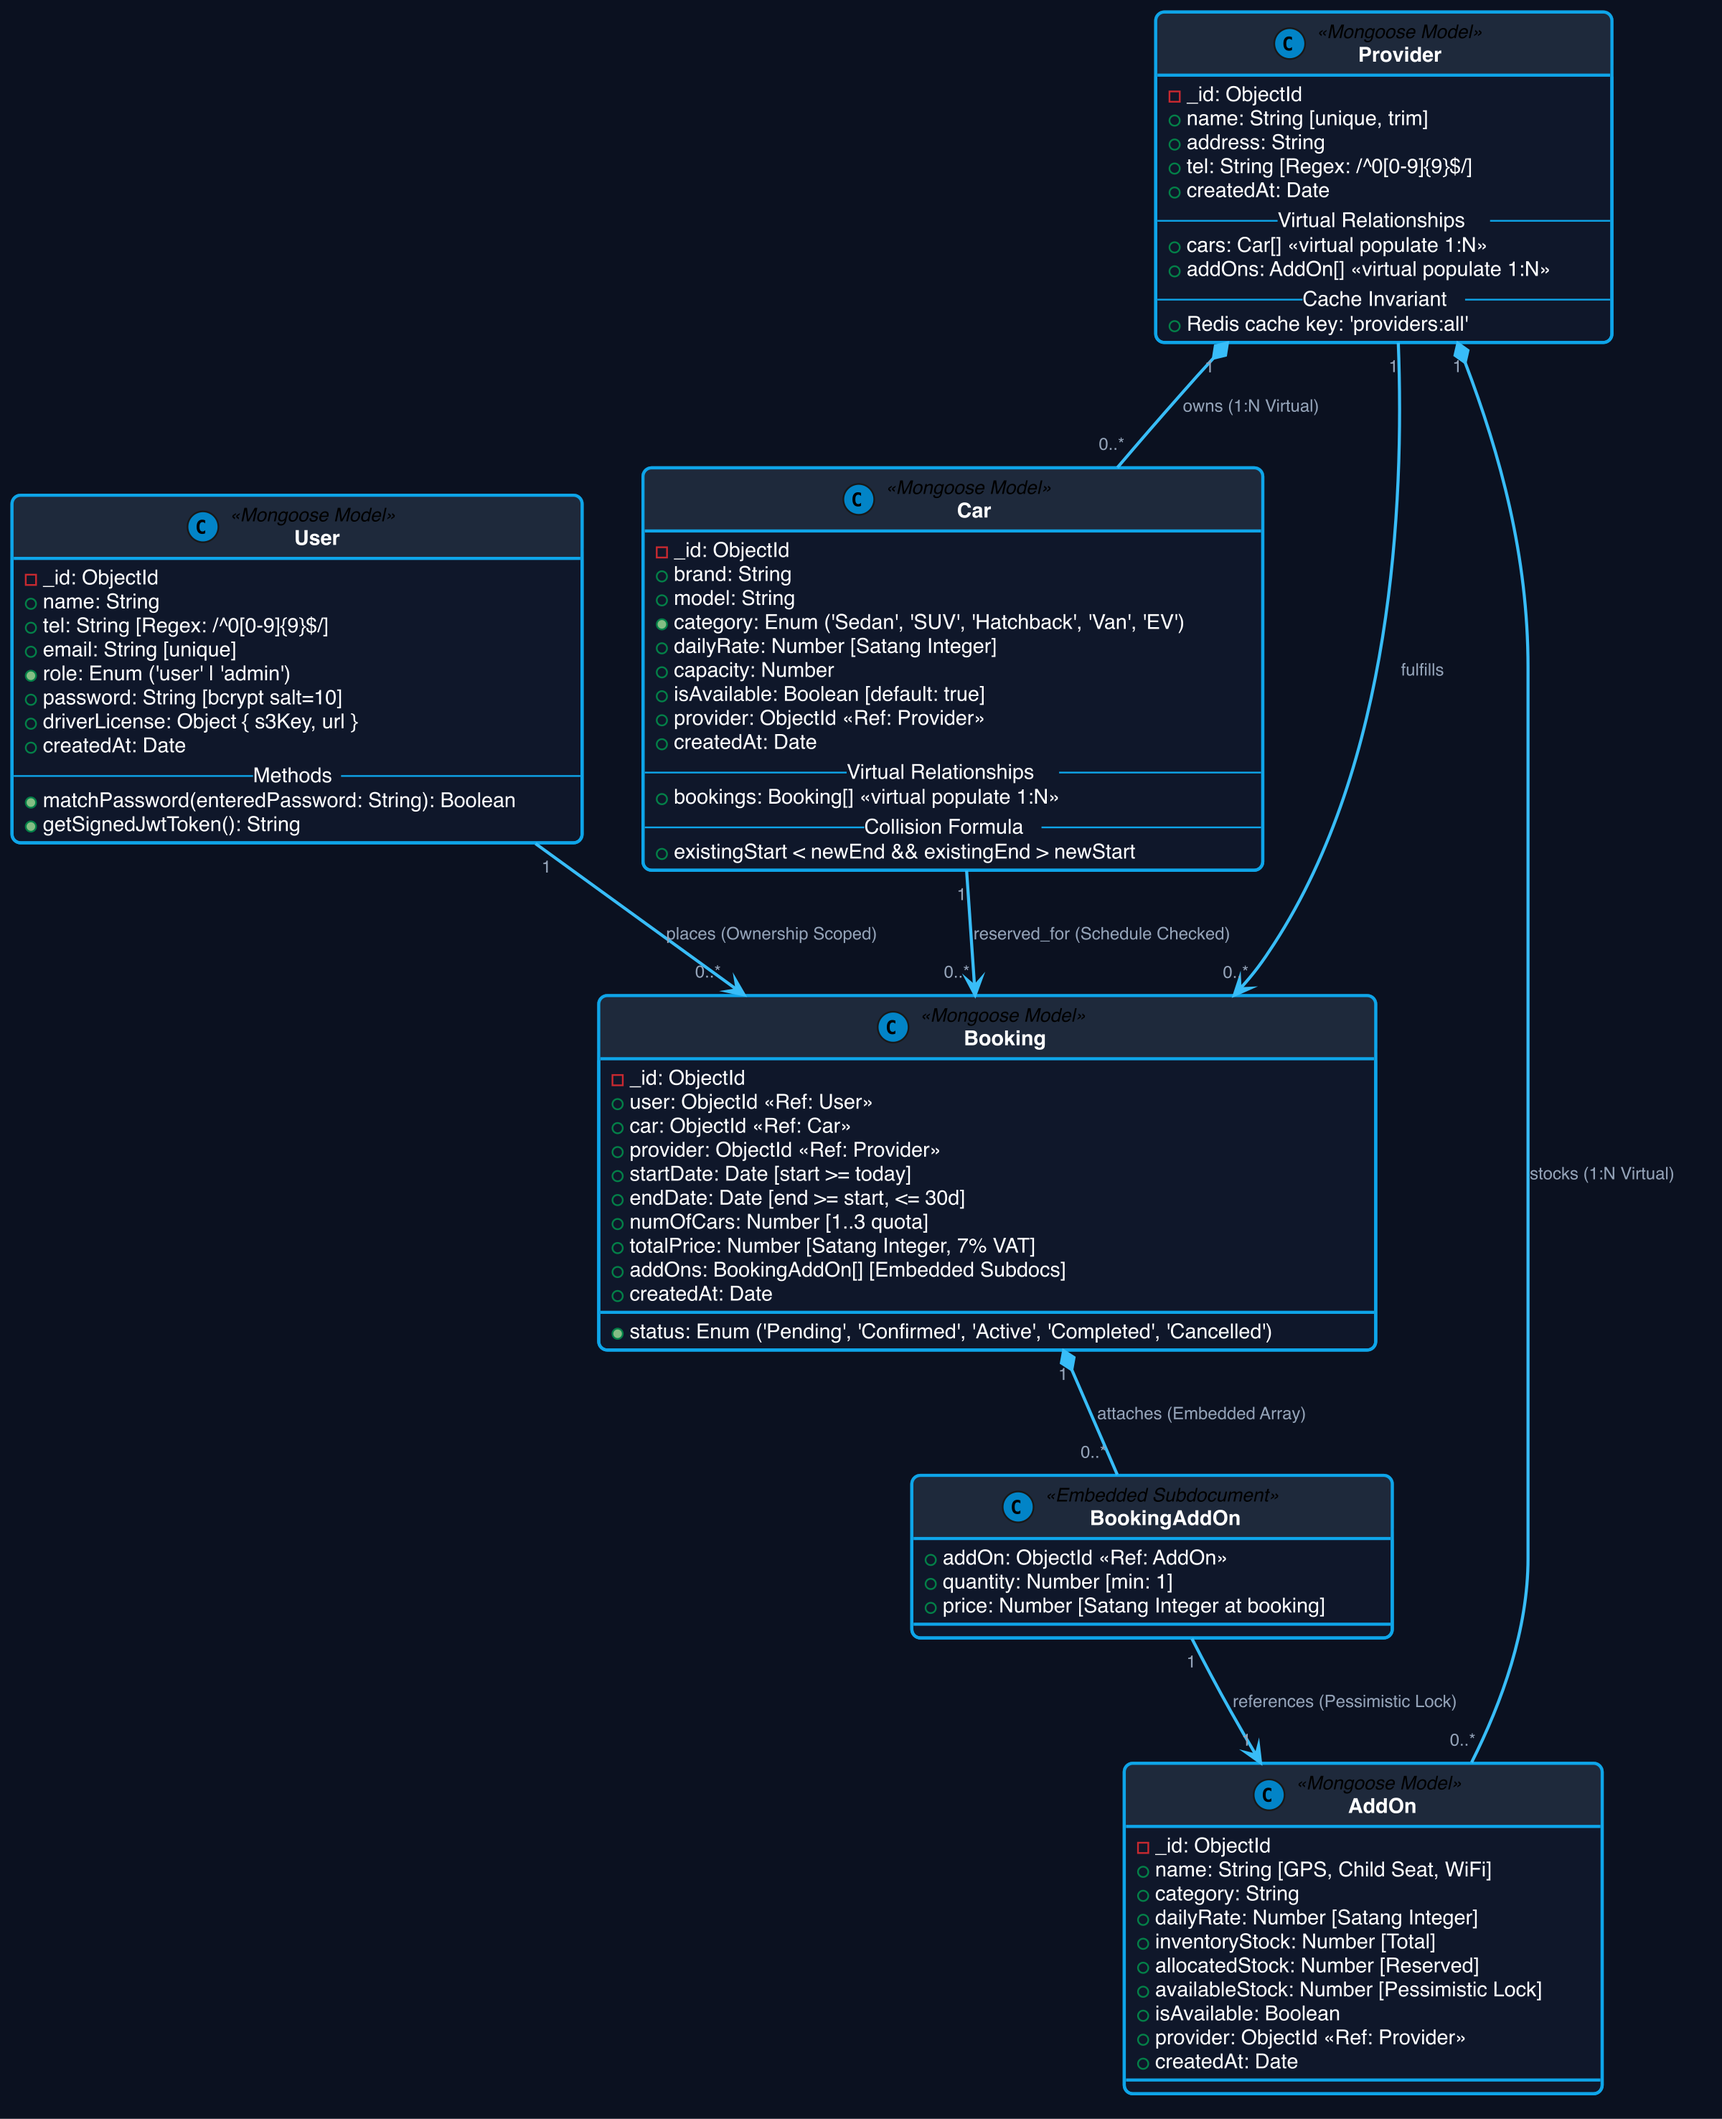
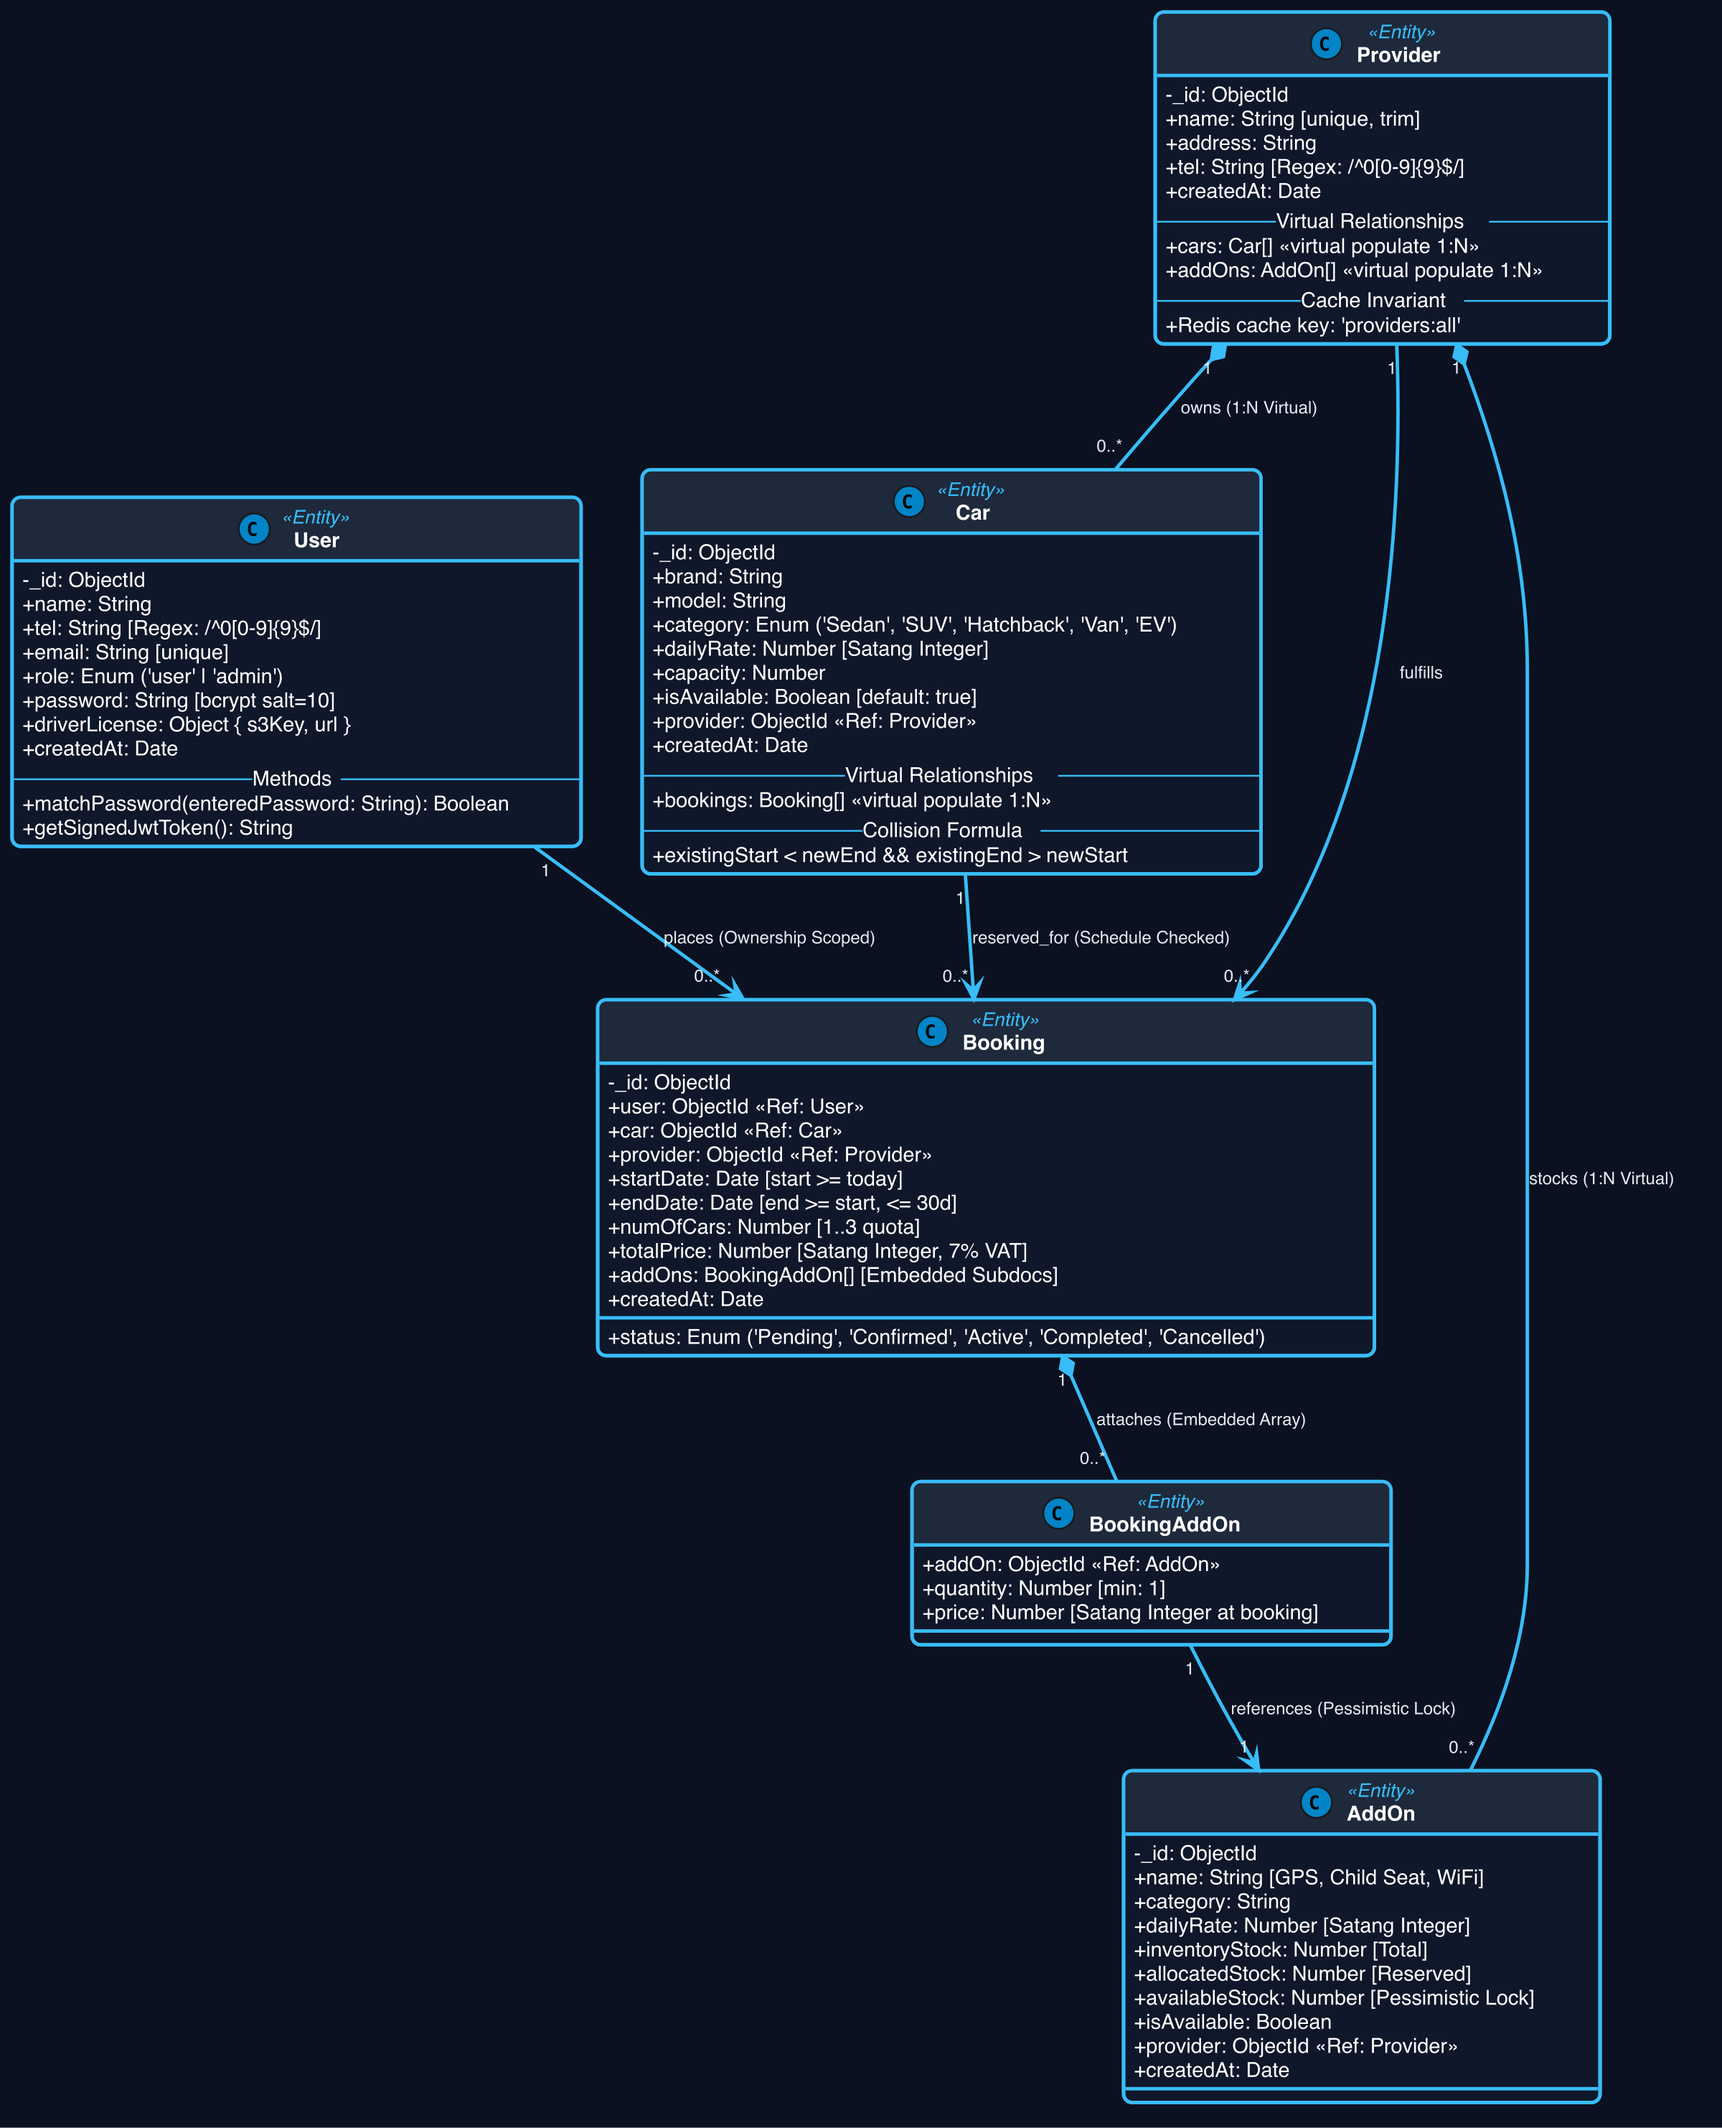
docs(diagrams): change stereotype to Entity with high-contrast sky blue color

diff --git a/docs/diagrams/class_diagram.md b/docs/diagrams/class_diagram.md
@@ -11,16 +11,21 @@ skinparam shadowing false
 skinparam defaultFontName "Helvetica, Arial, sans-serif"
 skinparam defaultFontSize 11
 
+skinparam classAttributeIconSize 0
+
 skinparam class {
     BackgroundColor #0F172A
-    BorderColor #0EA5E9
-    BorderThickness 1.8
+    BorderColor #38BDF8
+    BorderThickness 2
     HeaderBackgroundColor #1E293B
     FontColor #FFFFFF
     FontSize 14
     FontStyle bold
     AttributeFontColor #FFFFFF
     AttributeFontSize 12
+    StereotypeFontColor #38BDF8
+    StereotypeFontSize 11
+    StereotypeFontStyle italic
 }
 
 skinparam stereotypeCBackgroundColor #0284C7
@@ -28,12 +33,12 @@ skinparam stereotypeCFontColor #FFFFFF
 
 skinparam arrow {
     Color #38BDF8
-    Thickness 1.8
-    FontColor #94A3B8
+    Thickness 2
+    FontColor #E2E8F0
     FontSize 10
 }
 
-class User <<Mongoose Model>> {
+class User <<Entity>> {
     -_id: ObjectId
     +name: String
     +tel: String [Regex: /^0[0-9]{9}$/]
@@ -47,7 +52,7 @@ class User <<Mongoose Model>> {
     +getSignedJwtToken(): String
 }
 
-class Provider <<Mongoose Model>> {
+class Provider <<Entity>> {
     -_id: ObjectId
     +name: String [unique, trim]
     +address: String
@@ -60,7 +65,7 @@ class Provider <<Mongoose Model>> {
     +Redis cache key: 'providers:all'
 }
 
-class Car <<Mongoose Model>> {
+class Car <<Entity>> {
     -_id: ObjectId
     +brand: String
     +model: String
@@ -76,7 +81,7 @@ class Car <<Mongoose Model>> {
     +existingStart < newEnd && existingEnd > newStart
 }
 
-class Booking <<Mongoose Model>> {
+class Booking <<Entity>> {
     -_id: ObjectId
     +user: ObjectId <<Ref: User>>
     +car: ObjectId <<Ref: Car>>
@@ -90,7 +95,7 @@ class Booking <<Mongoose Model>> {
     +createdAt: Date
 }
 
-class AddOn <<Mongoose Model>> {
+class AddOn <<Entity>> {
     -_id: ObjectId
     +name: String [GPS, Child Seat, WiFi]
     +category: String
@@ -103,7 +108,7 @@ class AddOn <<Mongoose Model>> {
     +createdAt: Date
 }
 
-class BookingAddOn <<Embedded Subdocument>> {
+class BookingAddOn <<Entity>> {
     +addOn: ObjectId <<Ref: AddOn>>
     +quantity: Number [min: 1]
     +price: Number [Satang Integer at booking]
